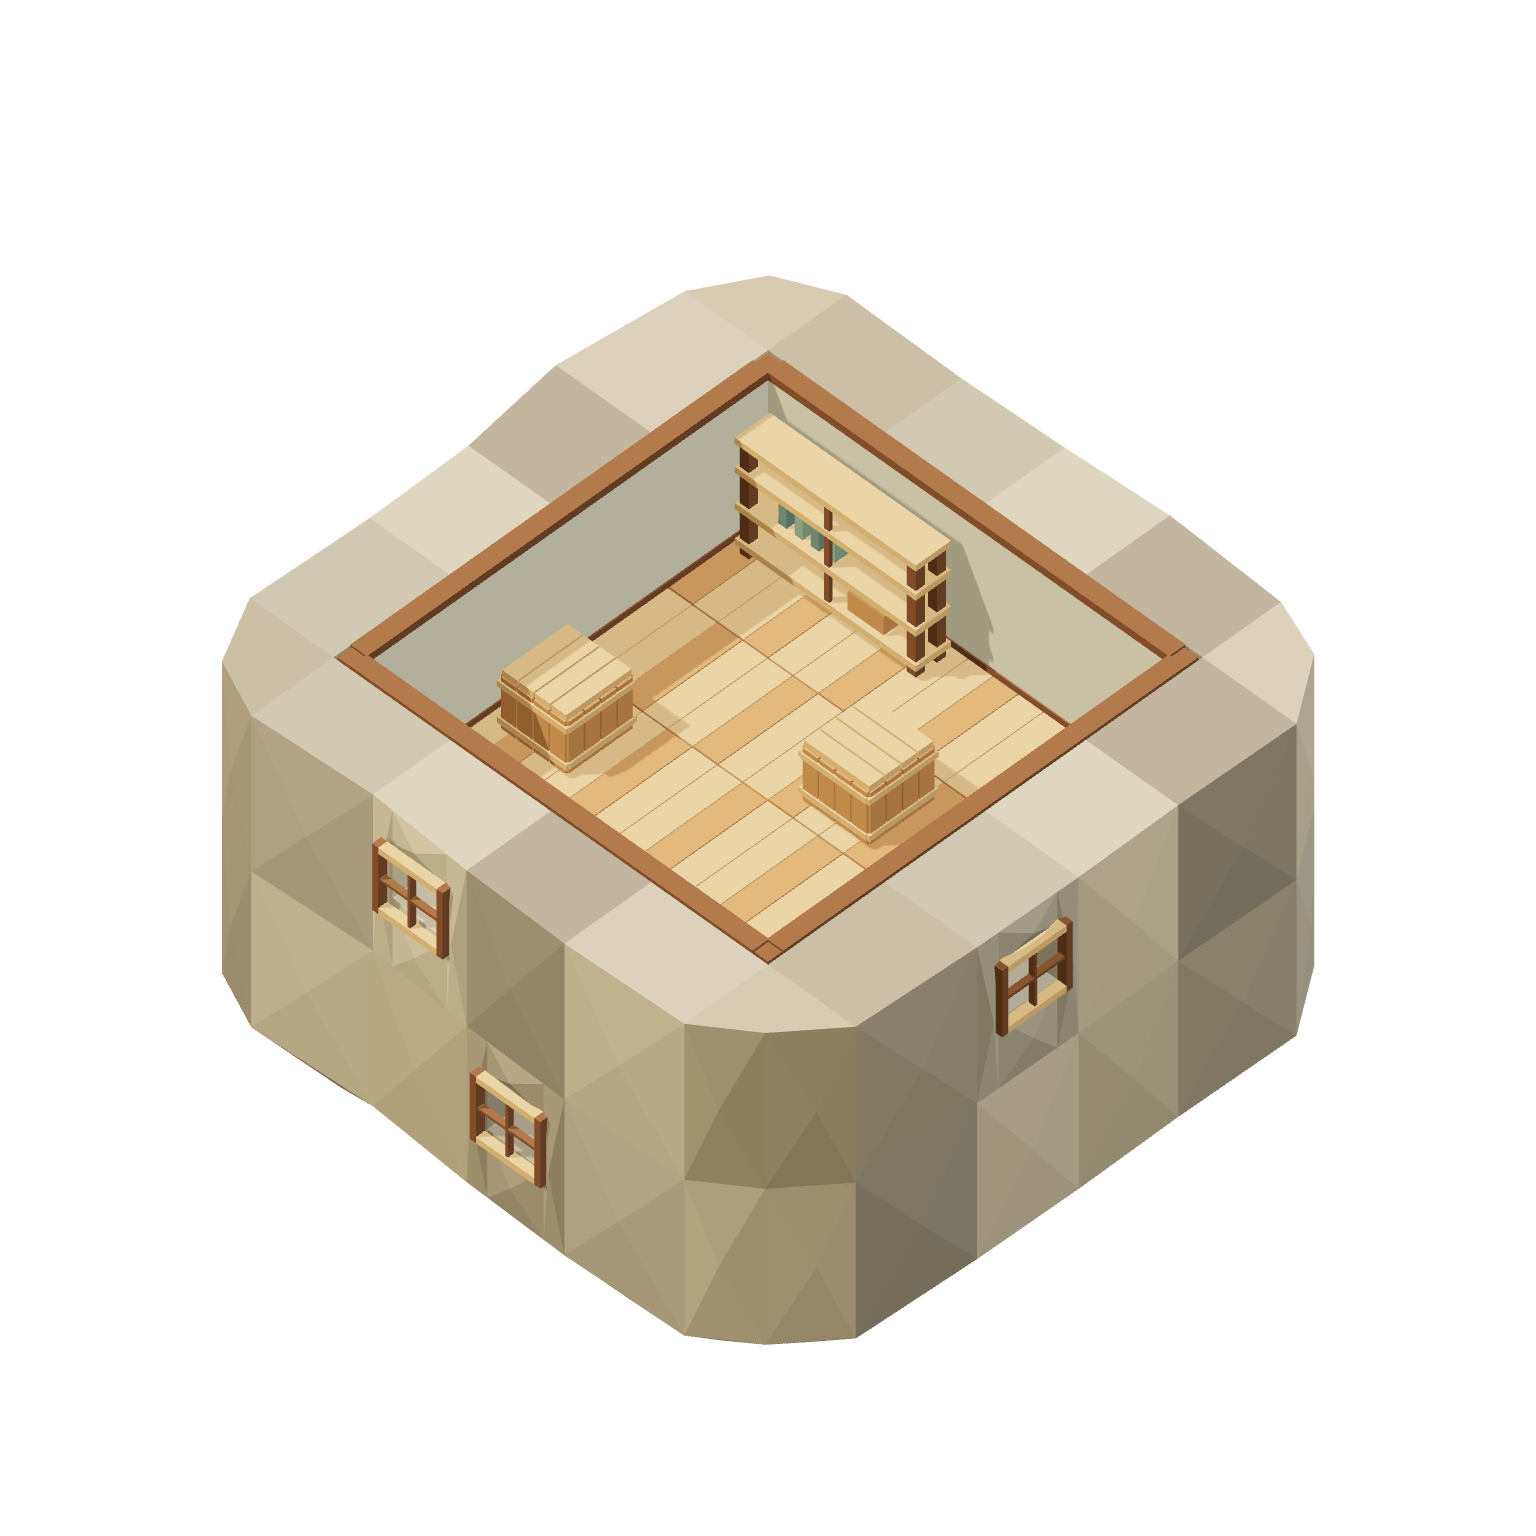
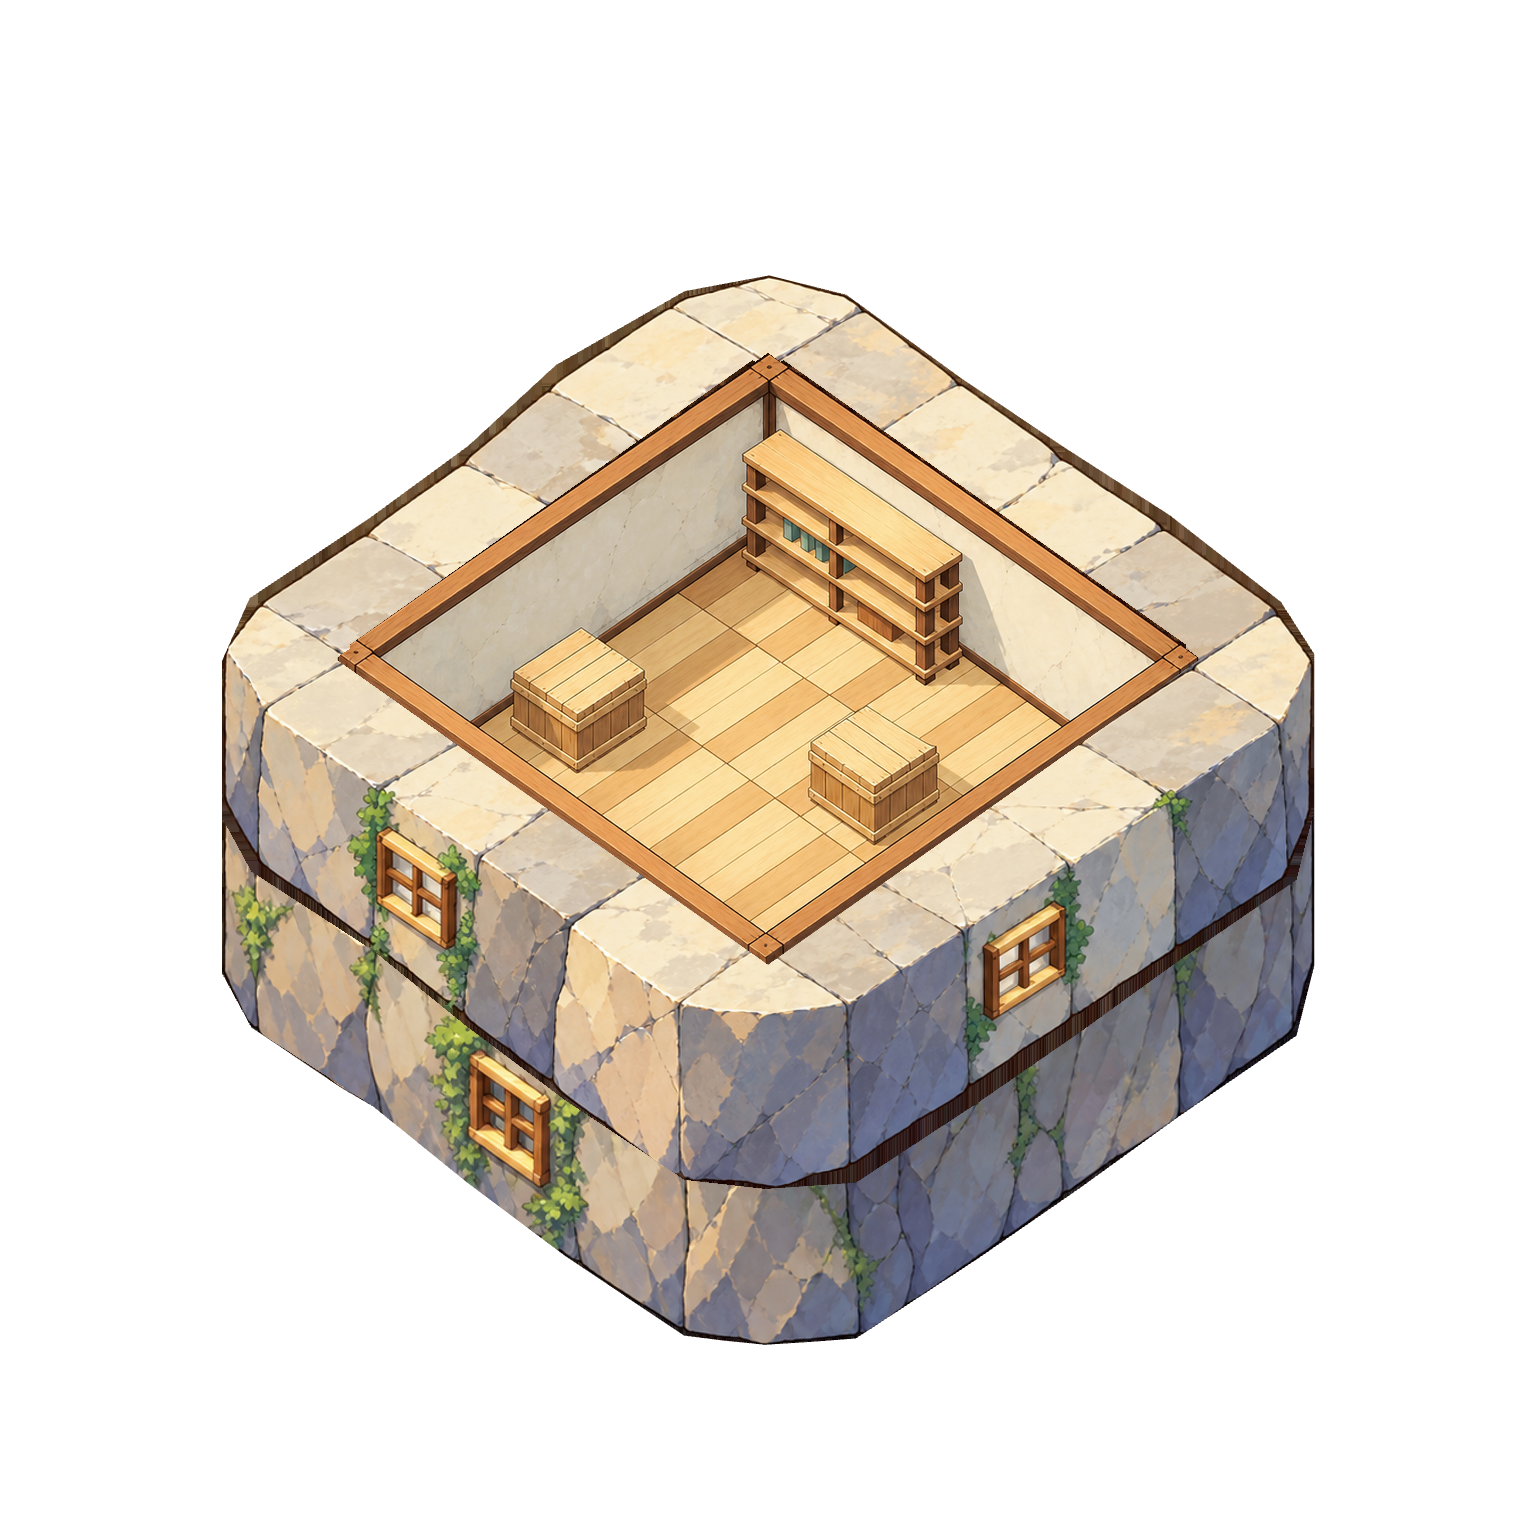
Sync web: Replace mini mountain 2D art with anime assets and independent sky
Desktop-Build-Source: 9f5eb60f5a4eeb6b88bd1dacdcd0b9a260fc1c66

Changed region(s): [[0.125, 0.1562, 0.875, 0.875]]

diff --git a/src/web/prototypes/mini-mountain-2d/index.html b/src/web/prototypes/mini-mountain-2d/index.html
@@ -3,19 +3,19 @@
 <head>
   <meta charset="utf-8"><meta name="viewport" content="width=device-width, initial-scale=1">
   <title>迷你悬浮山 · 2D 逐层预览</title>
-  <link rel="icon" href="data:,"><link rel="stylesheet" href="./style.css?v=20261008">
-  <script type="module" src="./app.js?v=20261008-alignment"></script>
+  <link rel="icon" href="data:,"><link rel="stylesheet" href="./style.css?v=20261009-anime-v2">
+  <script type="module" src="./app.js?v=20261009-anime-v2"></script>
 </head>
 <body>
-  <header><div class="eyebrow">MINIATURE STUDY / 02 · 2D</div><h1>把小山，留在一幅画里</h1><p>同一座山，同样的斜 45°。切层保持位置和大小，逐层揭开三个小房间。</p></header>
+  <header><div class="eyebrow">MINIATURE STUDY / 02 · 2D</div><h1>把小山，留在一幅画里</h1><p>二次元手绘风，同样的斜 45°。切层保持位置和大小，逐层揭开三个小房间。</p></header>
   <main>
-    <section id="viewport" aria-label="悬浮山 2D 预览"><img id="fallback" src="./assets/views/whole.png" alt="迷你悬浮山整体外观" fetchpriority="high"><canvas tabindex="0" aria-label="悬浮山二维画面，拖动平移，滚轮缩放，Home 恢复视图"></canvas><div id="loading" role="status">正在准备查看功能…</div></section>
+    <section id="viewport" aria-label="悬浮山 2D 预览"><img id="fallback" src="./assets/views/whole.png?v=2" alt="迷你悬浮山整体外观" fetchpriority="high"><canvas tabindex="0" aria-label="悬浮山二维画面，拖动平移，滚轮缩放，Home 恢复视图"></canvas><div id="loading" role="status">正在准备查看功能…</div></section>
     <aside aria-label="预览控制">
       <div class="mode-heading"><span>逐层查看</span><strong id="current-layer" aria-live="polite">整体外观</strong></div>
       <nav id="modes" aria-label="查看模式"></nav>
       <div class="secondary"><div class="zoom"><button type="button" id="zoom-out" aria-label="缩小">−</button><output id="zoom">100%</output><button type="button" id="zoom-in" aria-label="放大">＋</button></div><button type="button" id="reset-view">↺ 恢复视图</button><a id="download" download>↓ 下载当前透明 PNG</a><a href="./assets.html">查看全部分层素材 ↗</a></div>
     </aside>
   </main>
-  <footer><span>拖动平移 · 滚轮 / 双指缩放</span><a href="../mini-mountain/index.html">查看对应 3D 版 ↗</a><span>4 × 4 格 / 每层 · 三层房间</span></footer>
+  <footer><span>拖动平移 · 滚轮 / 双指缩放</span><a href="../mini-mountain/index.html">原结构 3D 版 ↗</a><span>4 × 4 格 / 每层 · 三层房间</span></footer>
 </body>
 </html>

diff --git a/src/web/prototypes/mini-mountain-2d/app.js b/src/web/prototypes/mini-mountain-2d/app.js
@@ -3,9 +3,10 @@ const loading = document.querySelector('#loading'), context = canvas.getContext(
 const fallback = document.querySelector('#fallback');
 try {
   if (!context) throw new Error('Canvas 2D unavailable');
-  const response = await fetch('./assets/manifest.json');
+  const response = await fetch('./assets/manifest.json?v=20261009-anime-v2');
   if (!response.ok) throw new Error(`Asset manifest: ${response.status}`);
   const manifest = await response.json(), images = new Map(), pending = new Map();
+  const assetUrl = image => `${image}${image.includes('?') ? '&' : '?'}v=${manifest.version}`;
   let mode = manifest.modes[0], zoom = 1, pan = { x: 0, y: 0 }, width = 1, height = 1, selection = 0;
   function loadImage(entry) {
     if (images.has(entry.id)) return Promise.resolve(images.get(entry.id));
@@ -19,7 +20,7 @@ try {
       };
       const timeout = setTimeout(() => finish(new Error(`Image timed out: ${entry.image}`)), 15000);
       image.onload = () => finish(); image.onerror = () => finish(new Error(`Image failed: ${entry.image}`));
-      image.src = entry.image;
+      image.src = assetUrl(entry.image);
     }).finally(() => pending.delete(entry.id));
     pending.set(entry.id, promise); return promise;
   }
@@ -50,7 +51,7 @@ try {
     mode = next; viewport.dataset.viewMode = next.id;
     for (const button of document.querySelectorAll('[data-mode]')) button.setAttribute('aria-pressed', String(button.dataset.mode === next.id));
     document.querySelector('#current-layer').textContent = next.label;
-    const download = document.querySelector('#download'); download.href = next.image; download.download = `mini-mountain-${next.id}.png`;
+    const download = document.querySelector('#download'); download.href = assetUrl(next.image); download.download = `mini-mountain-${next.id}.png`;
     render(); loading.hidden = true;
   }
   for (const [i, entry] of manifest.modes.entries()) {

diff --git a/src/web/prototypes/mini-mountain-2d/assets.html b/src/web/prototypes/mini-mountain-2d/assets.html
@@ -1,3 +1,3 @@
 <!doctype html>
-<html lang="zh-CN"><head><meta charset="utf-8"><meta name="viewport" content="width=device-width,initial-scale=1"><title>迷你悬浮山 · 2D 分层素材</title><link rel="icon" href="data:,"><link rel="stylesheet" href="./style.css"><script type="module" src="./gallery.js"></script></head>
-<body class="gallery-page"><header><div class="eyebrow">MINIATURE STUDY / 02 · ASSETS</div><h1>一座小山的零件</h1><p>透明 PNG · 1536 × 1536 · 统一 45°、画布原点与比例。点击图片下载。</p></header><main><p><a href="./index.html">← 回到 2D 预览</a>　<a href="./assets/manifest.json" download>下载素材清单</a></p><div id="gallery-status" role="status">正在加载素材…</div><div id="gallery"></div></main></body></html>
+<html lang="zh-CN"><head><meta charset="utf-8"><meta name="viewport" content="width=device-width,initial-scale=1"><title>迷你悬浮山 · 2D 分层素材</title><link rel="icon" href="data:,"><link rel="stylesheet" href="./style.css?v=20261009-anime-v2"><script type="module" src="./gallery.js?v=20261009-anime-v2"></script></head>
+<body class="gallery-page"><header><div class="eyebrow">MINIATURE STUDY / 02 · ASSETS</div><h1>一座小山的零件</h1><p>透明 PNG · 1536 × 1536 · 统一 45°、画布原点与比例。点击图片下载。</p></header><main><p><a href="./index.html">← 回到 2D 预览</a>　<a href="./assets/manifest.json?v=20261009-anime-v2" download>下载素材清单</a></p><div id="gallery-status" role="status">正在加载素材…</div><div id="gallery"></div></main></body></html>

diff --git a/src/web/prototypes/mini-mountain-2d/gallery.js b/src/web/prototypes/mini-mountain-2d/gallery.js
@@ -1,5 +1,5 @@
 try {
-  const response = await fetch('./assets/manifest.json');
+  const response = await fetch('./assets/manifest.json?v=20261009-anime-v2');
   if (!response.ok) throw new Error(`Asset manifest: ${response.status}`);
   const manifest = await response.json();
   const categories = { views: '完整视图', layers: '房间、岩壳与屋顶', furniture: '独立家具' };
@@ -7,7 +7,7 @@ try {
     const heading = document.createElement('h2'); heading.textContent = label;
     const grid = document.createElement('div'); grid.className = 'gallery';
     for (const asset of manifest.assets.filter(entry => entry.category === category)) {
-      const link = document.createElement('a'); link.className = 'asset'; link.href = `./assets/${category}/${asset.id}.png`; link.download = `${asset.id}.png`;
+      const link = document.createElement('a'); link.className = 'asset'; link.href = `./assets/${category}/${asset.id}.png?v=${manifest.version}`; link.download = `${asset.id}.png`;
       const image = new Image(); image.src = link.href; image.alt = asset.label; image.loading = 'lazy';
       const caption = document.createElement('span'); caption.textContent = asset.label;
       link.append(image, caption); grid.append(link);

diff --git a/src/web/prototypes/mini-mountain-2d/style.css b/src/web/prototypes/mini-mountain-2d/style.css
@@ -6,7 +6,7 @@ header { padding: 28px 38px 10px; pointer-events: none; }
 h1 { font-size: clamp(20px, 2.2vw, 29px); font-weight: 600; margin: 9px 0; letter-spacing: .07em; }
 p { margin: 0; color: #7b827b; font-size: 12px; }
 main { min-height: 0; flex: 1; display: grid; grid-template-columns: minmax(0, 1fr) 216px; gap: 14px; padding: 0 38px; }
-#viewport { position: relative; min-height: 0; min-width: 0; touch-action: none; }
+#viewport { position: relative; min-height: 0; min-width: 0; touch-action: none; background: #b4dafa url('./assets/background/sky.webp?v=2') center / cover no-repeat; border-radius: 12px; overflow: hidden; }
 canvas { display: block; width: 100%; height: 100%; outline: none; }
 #loading { position: absolute; inset: 0; display: grid; place-items: center; font-size: 14px; padding: 20px; }
 #loading[hidden] { display: none; }
